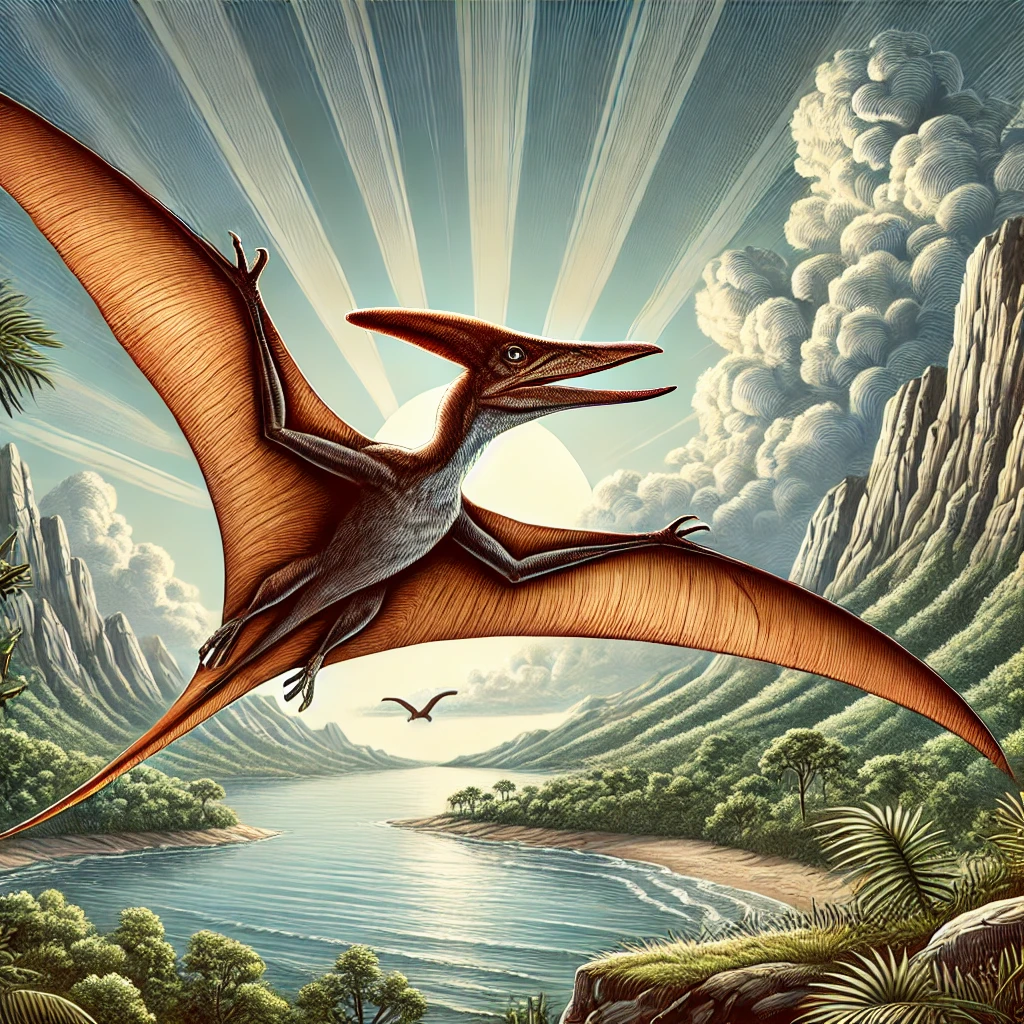
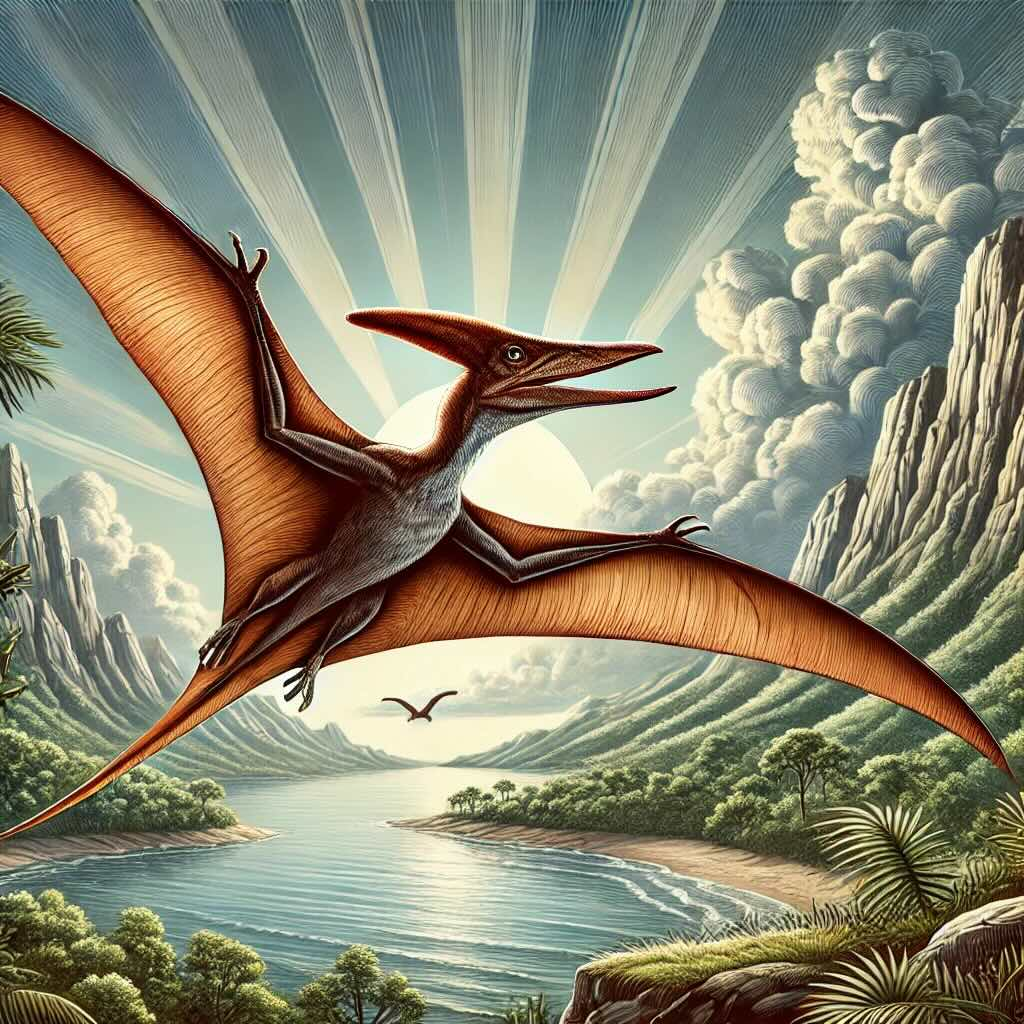
pic optimization

diff --git a/src/data/creatures.ts b/src/data/creatures.ts
@@ -823,7 +823,7 @@ export const creatures: Creature[] = [
     length: '5,000 kg',
     weight: '9–10 m',
     diet: 'Herbivore',
-    image: '/images/threi.png',
+    image: '/images/threi.jpg',
     description: 'Therizinosaurus was one of the most bizarre and enigmatic dinosaurs to ever walk the Earth, living during the Late Cretaceous period, around 70 million years ago, in what is now Mongolia. Despite its fearsome appearance, with claws that could grow over 3 feet (1 meter) long, Therizinosaurus was actually an herbivore, and its massive claws were likely used for foraging, stripping leaves from tall plants or possibly for defense rather than hunting prey. This large, feathered dinosaur reached lengths of up to 33 feet (10 meters) and had a bulky, elongated body, with a relatively small head compared to its size. Its long neck and robust, plant-eating teeth further suggest its herbivorous diet, feeding on the abundant vegetation of the time. The claws, often depicted as being used for combat, may also have played a role in mating displays or territorial behavior. Its posture was somewhat upright, with a heavily muscled body supported by strong hind limbs, and it likely moved slowly through the Cretaceous forests, grazing on ferns, conifers, and other plants. The unique combination of features in Therizinosaurus, including its giant claws, herbivorous habits, and bizarre proportions, make it one of the most fascinating and puzzling dinosaurs known to science, illustrating how evolution can produce extraordinary and unexpected adaptations in the animal kingdom.',
     category: 'Dinosaurs',
     subcategory: 'Theropods',
@@ -1025,7 +1025,7 @@ export const creatures: Creature[] = [
     length: ' 11 metres',
     weight: '6,000-7,000',
     diet: 'Carnivore',
-    image: '/images/deino.png',
+    image: '/images/deino.jpg',
     description: 'Deinosuchus is an extinct genus of giant crocodyliform that lived during the Late Cretaceous period, around 82 to 73 million years ago, and is considered one of the largest and most fearsome predators of its time. This massive reptile is believed to have reached lengths of up to 12 meters (about 40 feet) and weighed several tons, rivaling the size of modern crocodiles, but with even more formidable features. Deinosuchus had a broad, robust body and a massive, powerful skull with large, conical teeth designed for grabbing and crushing prey, including large dinosaurs that ventured near water.\n\nFossil evidence suggests that Deinosuchus lived in freshwater environments, such as rivers, lakes, and coastal areas of what is now North America. It is thought to have been an ambush predator, waiting in the water to strike swiftly at its prey, which could include large herbivorous dinosaurs, such as Hadrosaurus, or even smaller carnivores. Some paleontologists believe Deinosuchus was capable of pulling large animals into the water, where it could overpower them.\n\nAlthough it was a close relative of modern crocodiles, Deinosuchus was much larger and likely had different hunting strategies, taking full advantage of its immense size and strength. The discovery of Deinosuchus fossils, which include massive teeth and bones, has provided crucial insights into the predatory behavior and ecological role of giant crocodyliforms during the Cretaceous, showing how these reptiles could dominate both aquatic and terrestrial ecosystems',
     category: 'Prehistoric Reptiles',
     subcategory: 'Crocodilians',
